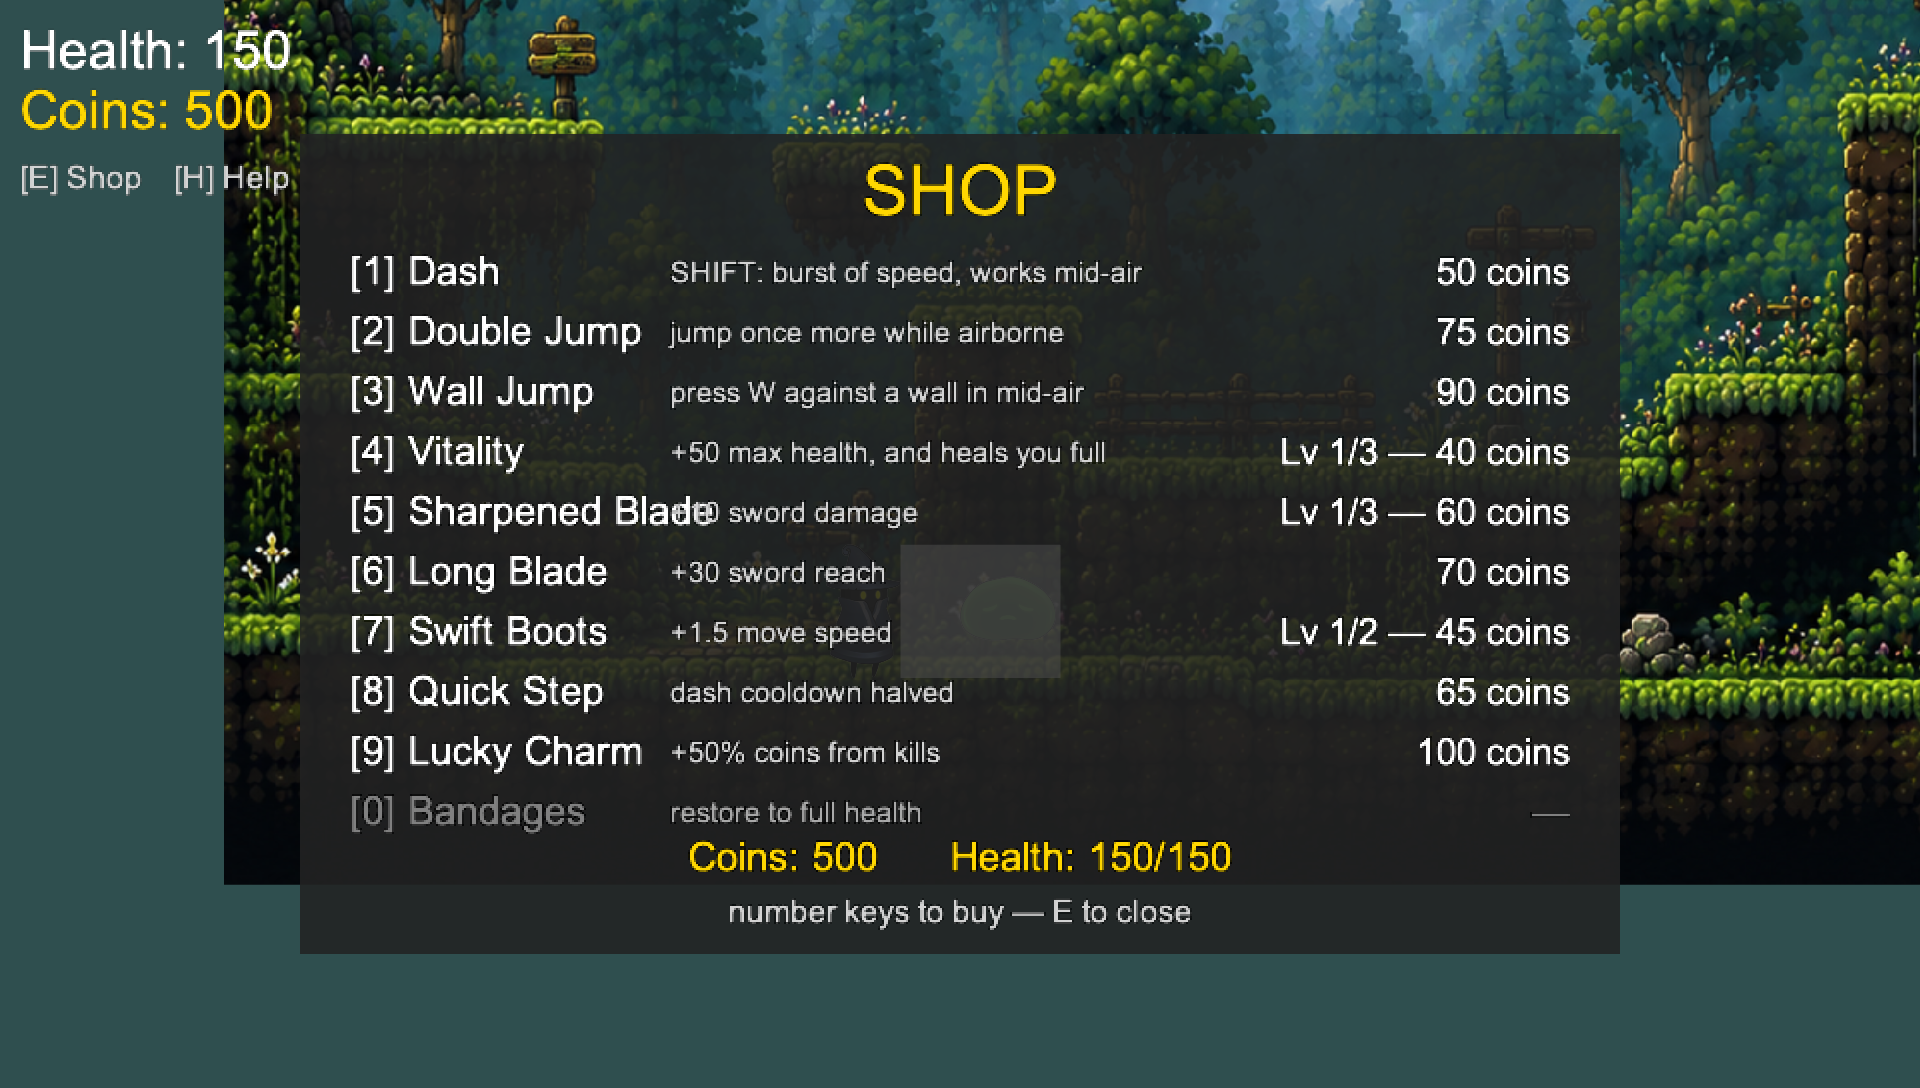
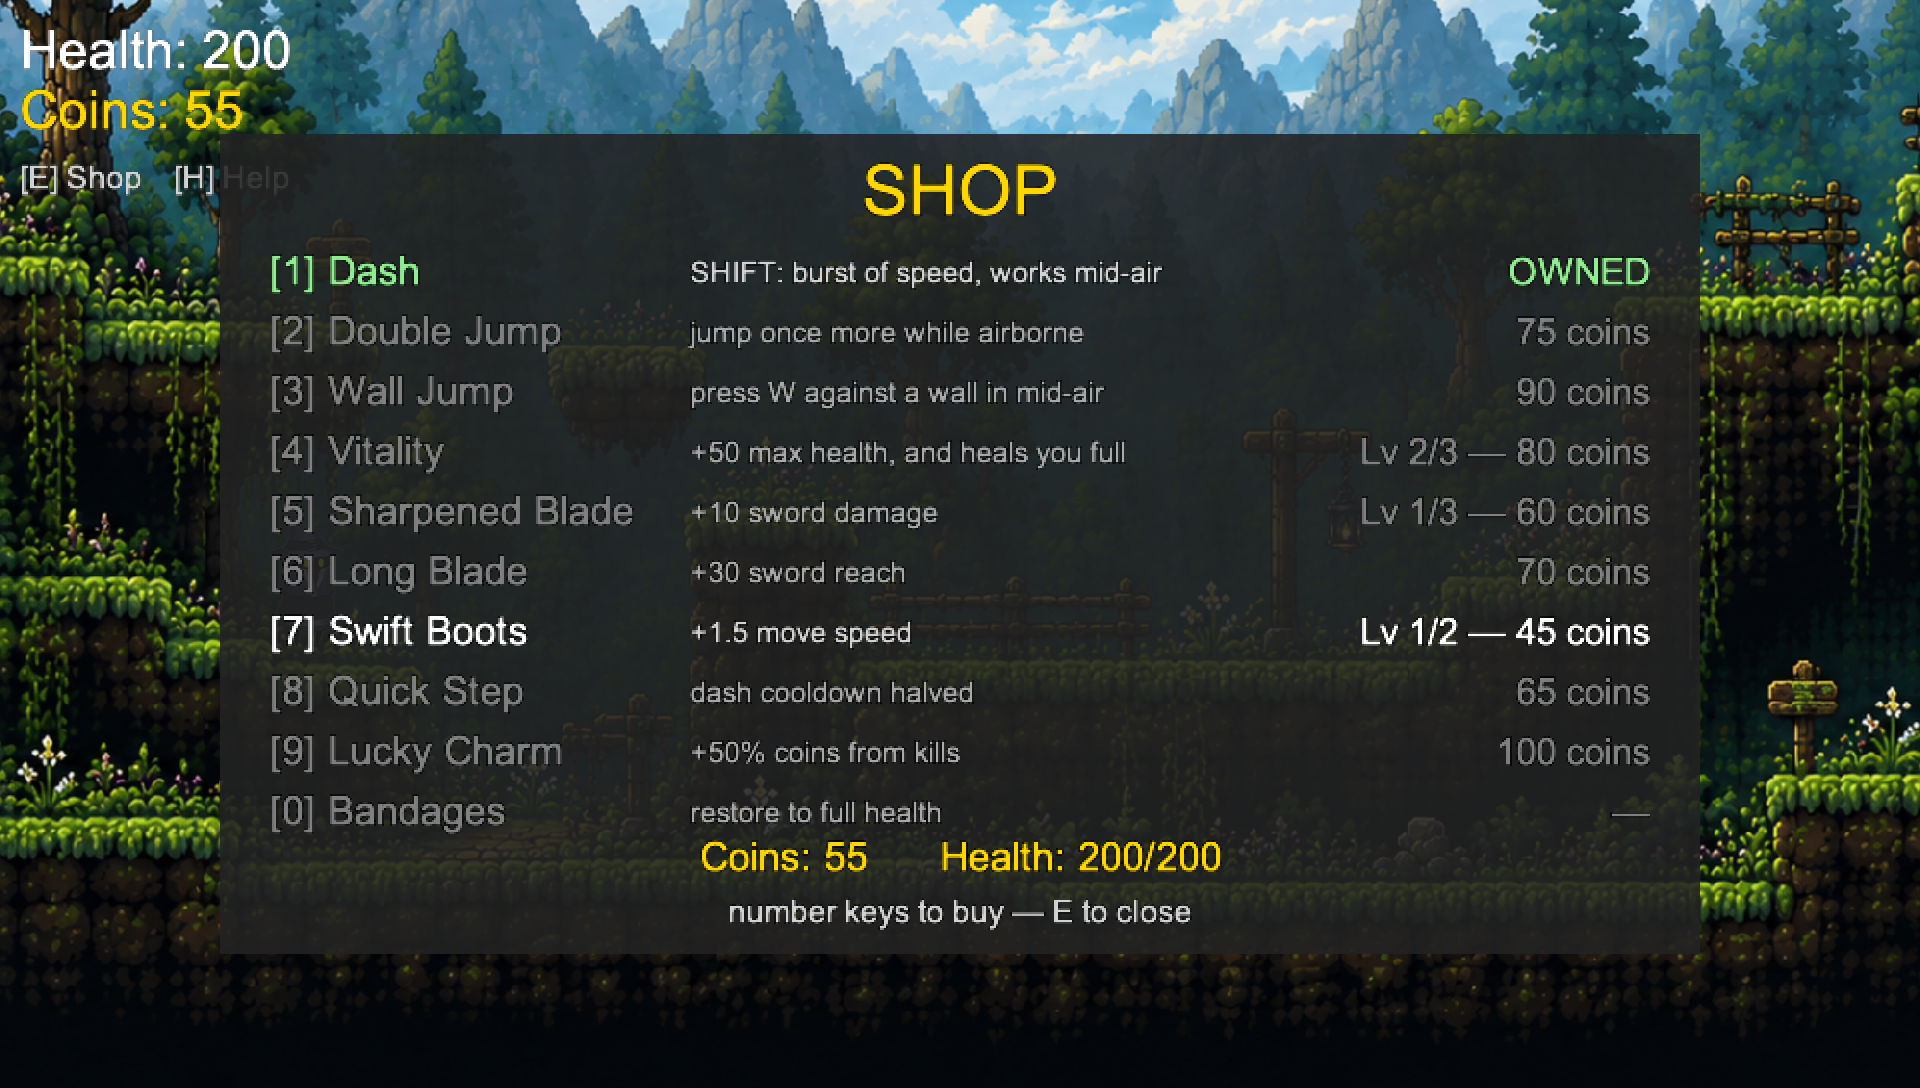
Label the boss doorway and fix overlapping shop text
- The doorway to the arena now prompts "F Boss Fight" in red rather than
  the generic "F Enter", so the player knows what they are walking into.
  The prompt's background box is sized to its text, so longer labels no
  longer overflow it.
- Widened the shop panel and its name column: "Sharpened Blade" was long
  enough to run into its description text.
- Updated the shop screenshot to match.

diff --git a/game_view.py b/game_view.py
@@ -717,21 +717,30 @@ class GameView(arcade.View):
         )
 
     def _draw_door_prompt(self):
-        """Floating "[F] Enter/Open" hint above the player while they
-        stand at a live door or an unopened chest."""
+        """Floating "[F] Enter/Boss Fight/Open" hint above the player while
+        they stand at a live door or an unopened chest."""
+        colour = arcade.color.WHITE
         if self.active_entry is not None:
-            action = "Enter"
+            if self.active_entry["to"] == BOSS_FIGHT_KEY:
+                action = "Boss Fight"          # named, so it is not a surprise
+                colour = arcade.color.CRIMSON_GLORY
+            else:
+                action = "Enter"
         elif self.active_chest is not None:
             action = "Open"
         else:
             return
+
         p = self.player_sprite
+        label = f"[{DOOR_INTERACT_KEY}] {action}"
+        # Size the backing box to the text so longer labels still fit
+        half_w = 18 + len(label) * 4.6
         y = p.center_y + p.body_half_height + 18
         arcade.draw_lrbt_rectangle_filled(
-            p.center_x - 62, p.center_x + 62, y - 8, y + 24, (0, 0, 0, 180)
+            p.center_x - half_w, p.center_x + half_w, y - 8, y + 24,
+            (0, 0, 0, 180)
         )
-        arcade.draw_text(f"[{DOOR_INTERACT_KEY}] {action}",
-                         p.center_x, y, arcade.color.WHITE, 14,
+        arcade.draw_text(label, p.center_x, y, colour, 14,
                          anchor_x="center", bold=True)
 
     def _draw_coin_popup(self):
@@ -789,8 +798,15 @@ class GameView(arcade.View):
 
         row_h = 30
         panel_h = 110 + len(SHOP_ITEMS) * row_h
-        panel_w = 660
+        panel_w = 740
         top = cy + panel_h / 2
+        left = cx - panel_w / 2
+        # Column starts, measured from the panel's left edge. The name
+        # column has to clear the longest item name ("Sharpened Blade"),
+        # which used to run into the description text.
+        col_name = left + 25
+        col_desc = left + 235
+        col_status = cx + panel_w / 2 - 25       # right-aligned
 
         arcade.draw_lrbt_rectangle_filled(
             cx - panel_w / 2, cx + panel_w / 2,
@@ -817,13 +833,11 @@ class GameView(arcade.View):
                          else arcade.color.GRAY)
 
             slot = (i + 1) % 10
-            arcade.draw_text(f"[{slot}] {item['name']}",
-                             cx - panel_w / 2 + 25, y, color, 15)
-            arcade.draw_text(item["desc"],
-                             cx - panel_w / 2 + 185, y + 1,
+            arcade.draw_text(f"[{slot}] {item['name']}", col_name, y, color, 15)
+            arcade.draw_text(item["desc"], col_desc, y + 1,
                              arcade.color.DARK_GRAY if color == arcade.color.GRAY
                              else arcade.color.LIGHT_GRAY, 11)
-            arcade.draw_text(status, cx + panel_w / 2 - 25, y, color, 14,
+            arcade.draw_text(status, col_status, y, color, 14,
                              anchor_x="right")
 
         arcade.draw_text(
